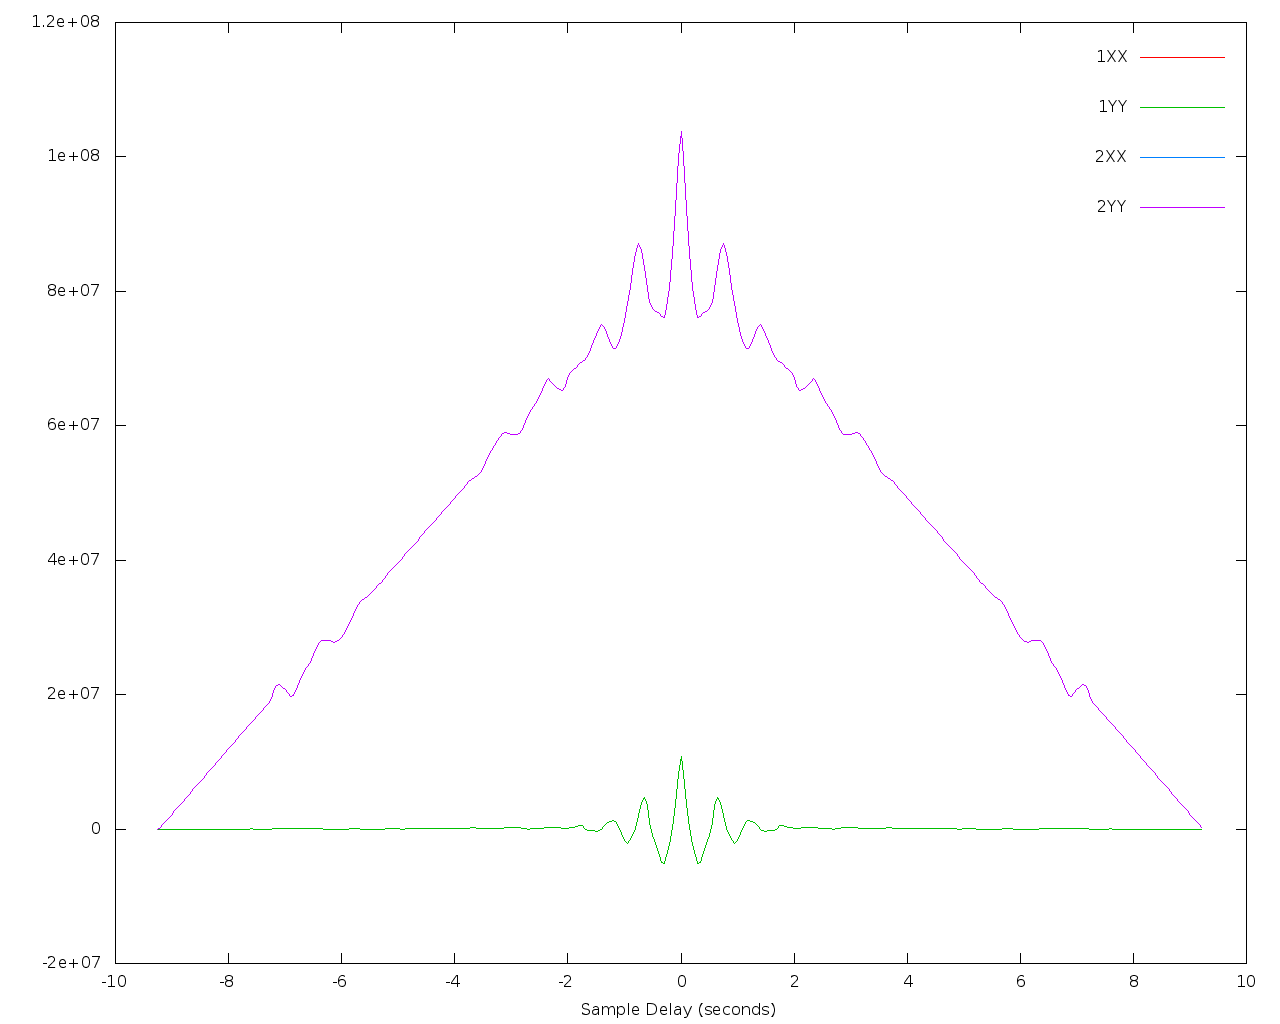
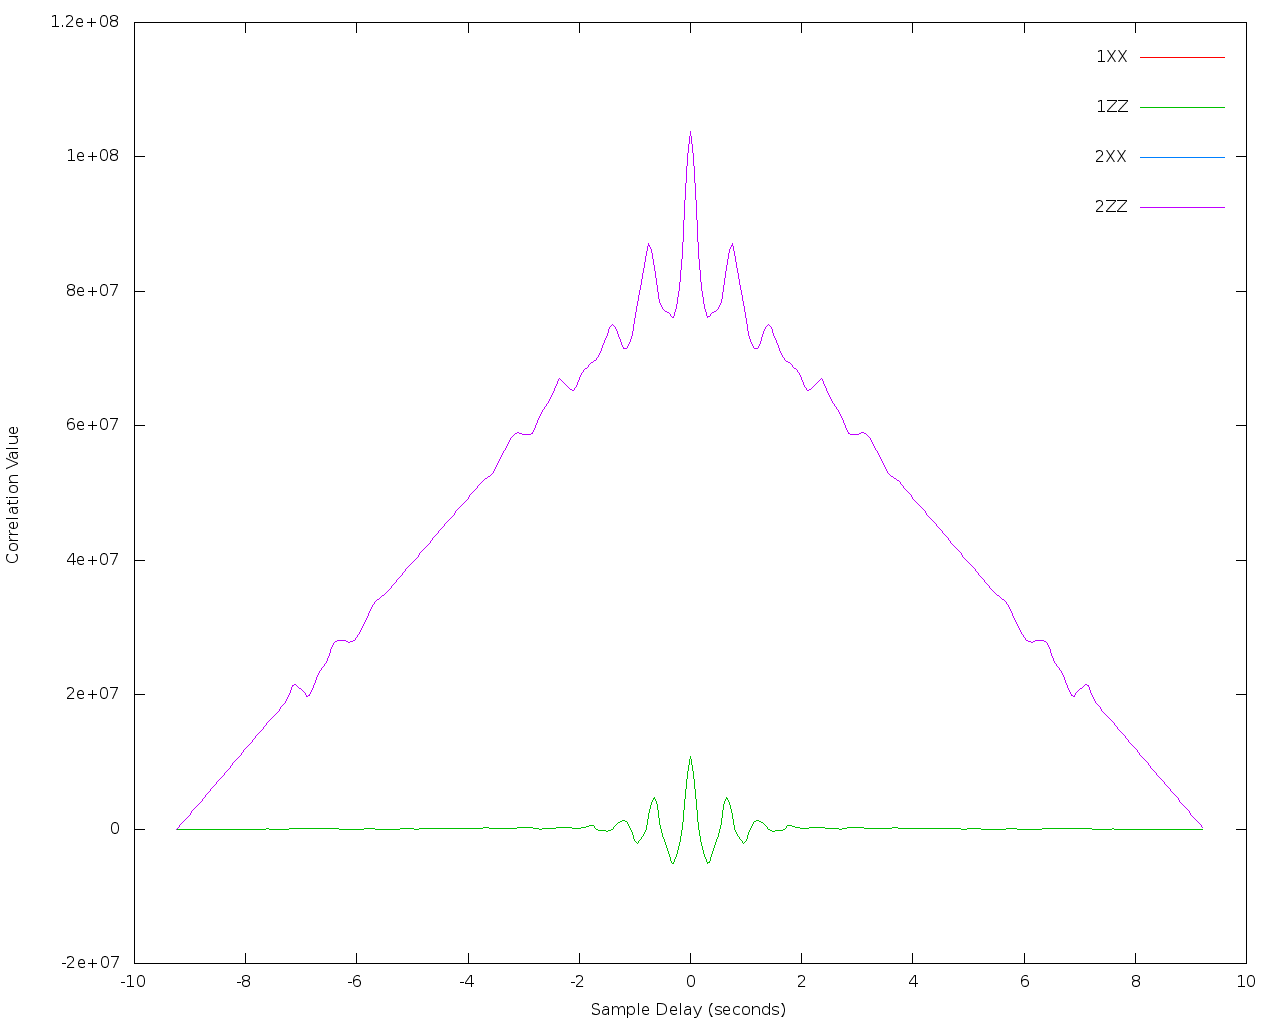
final xcorr extension update

diff --git a/FeatureExtraction/all_waveform_feature_xcorr.c b/FeatureExtraction/all_waveform_feature_xcorr.c
@@ -252,7 +252,7 @@ main(int argc, char **argv)
 			);
 		exit(EXIT_FAILURE);
 	}
-	fprintf(fp, "Time 1XX 1YY 2XX 2YY 1X2Y 1Y2X \n");
+	fprintf(fp, "Time 1XX 1ZZ 2XX 2ZZ 1X2Z 1Z2X \n");
 	for (i = 0; i < 2 * vector_length; i++) {
 		fprintf(fp, "%f, %f, %f, %f, %f, %f, %f\n",
 			(float)(i - vector_length)/sample_rate,
